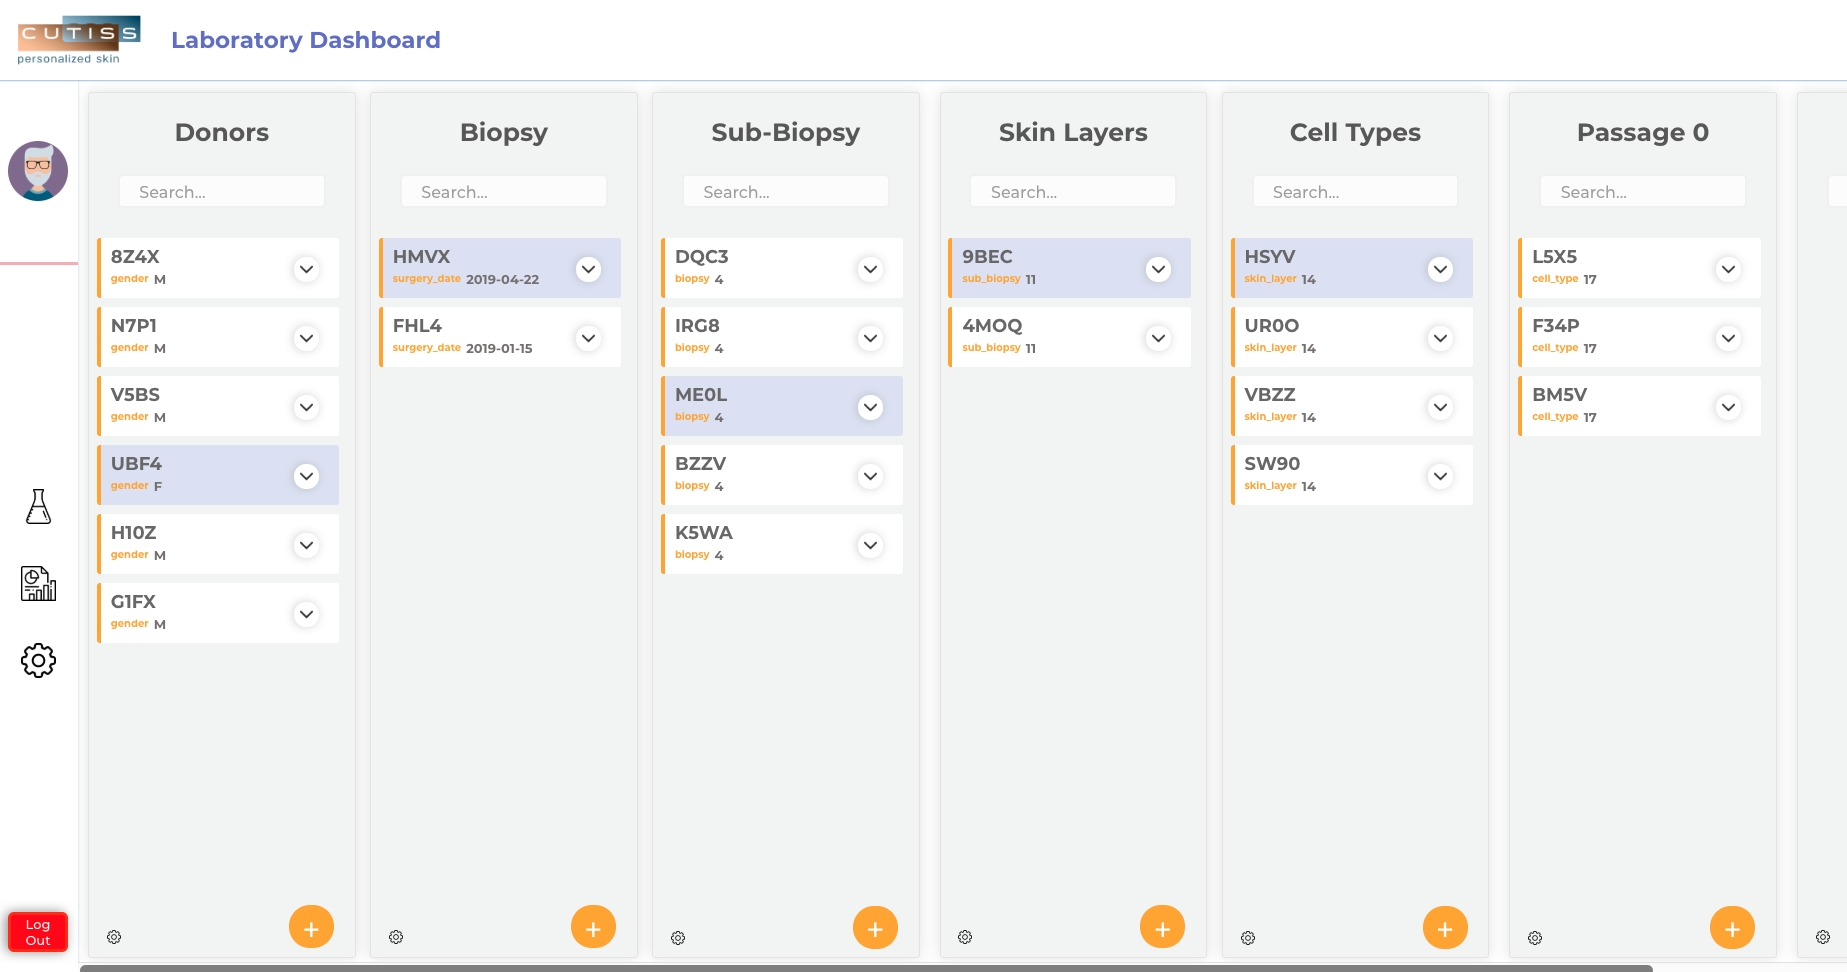
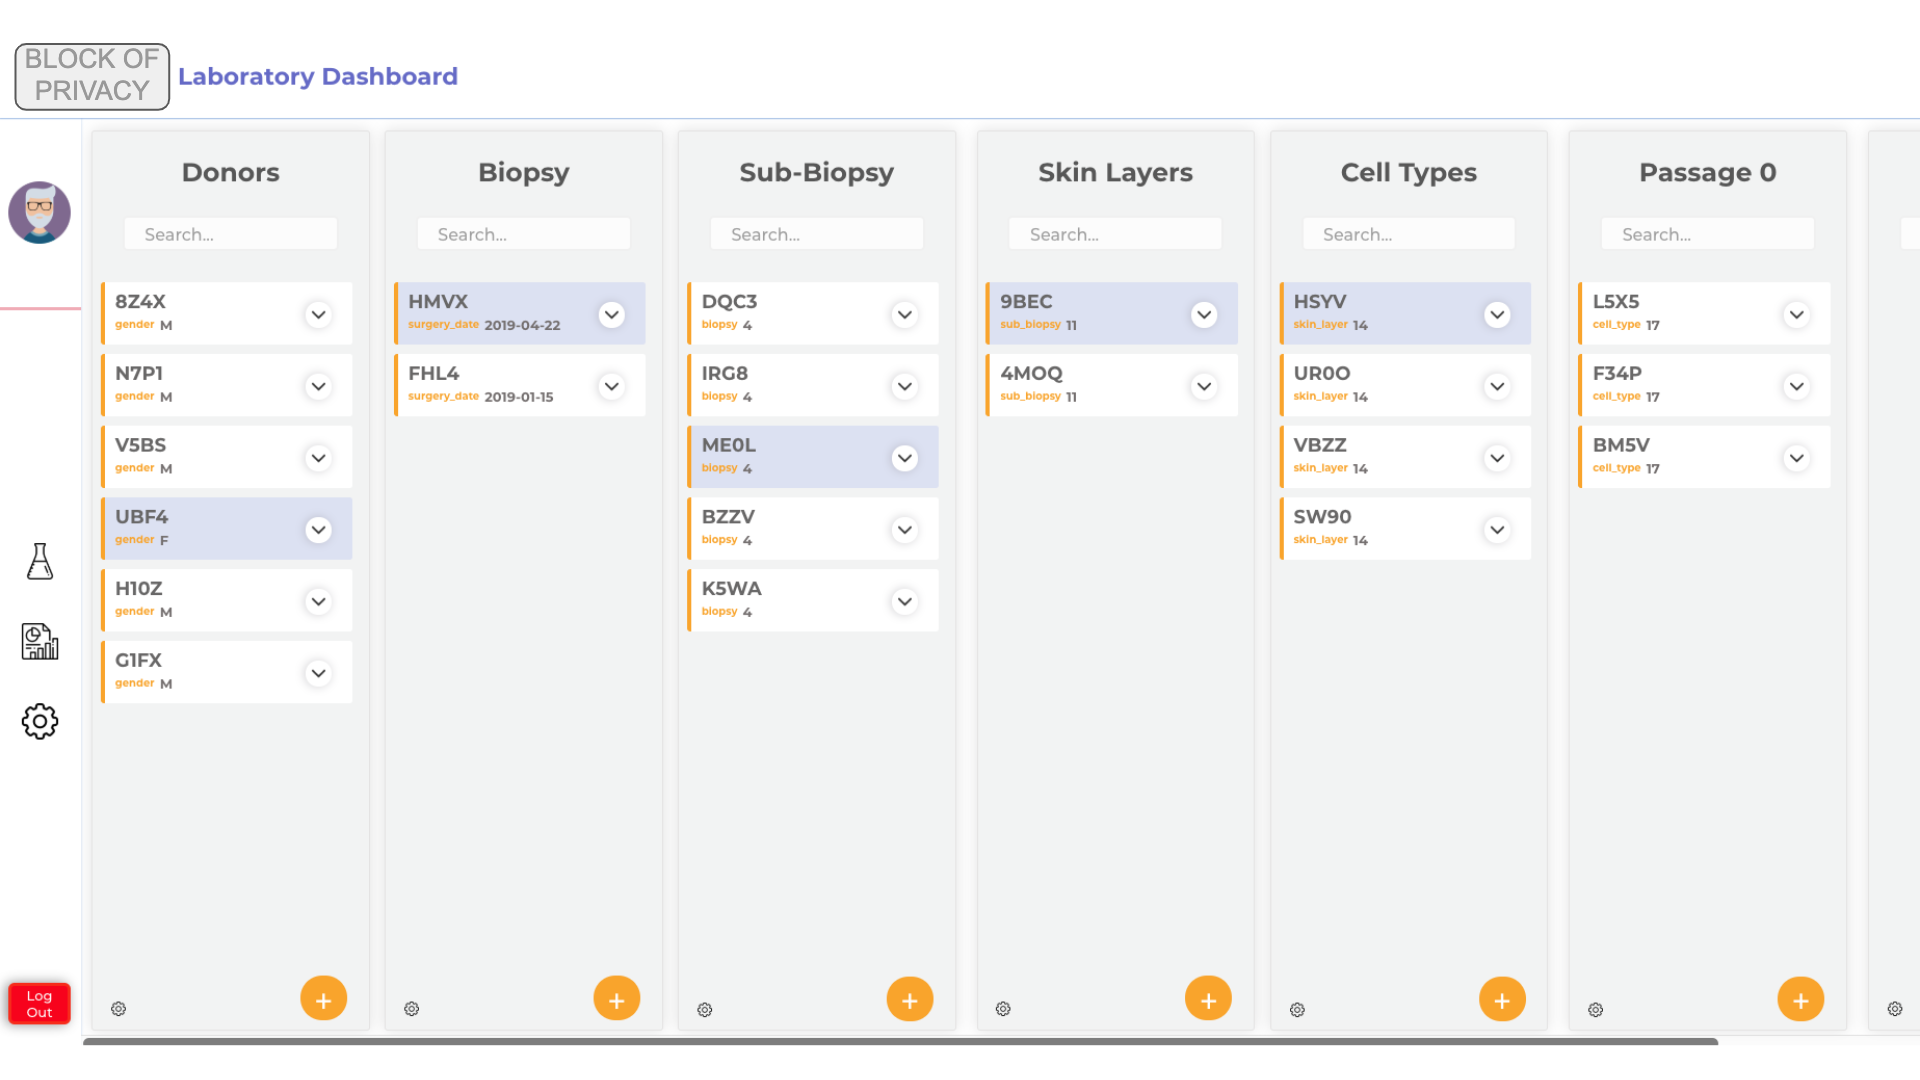
Updating project details in ReadMe and anonymizing demo screenshots

diff --git a/README.md b/README.md
@@ -1,37 +1,55 @@
 ![](frontend/src/assets/logo.png)
 
-# eSkin
-##This web application is meant for coding beginners and was built as my final project during my bootcamp at https://propulsion.academy/full-stack
+# Laboratory Dashboard
+## What is it?
+Web app built for a team of research scientists at a biotech company to log, edit, and analyze data from each step of their experiments.
 
-I started to learn programming with online courses like Codeacademy. I couldn't find any applications where I could save my code snippets, add my own comments and also run/test the code at the same place. That is what I tried to do.
+
+## Why?
+With each stage of their experiments, different data needs to be logged and tracked. Also, each entry is broken out into multiple entries in the next stage resulting in a massive amount of data needing organization, tracking, and analysis.
+
+This was the final project for my [Full Stack Web Development Bootcamp](https://propulsion.academy/full-stack) at Propulsion Academy built out for a swiss biotech company.
+
+## My contributions
+I worked alongside 2 fellow students with the guidance of our instructors to build this app from scratch to the meet the company's needs.  
+
+**I was primarily responsible for the following:**
+- DevOps: Project setup, deployment, admin features, and API/database maintenance
+- Backend: Models, serializers, and endpoint list
+- Frontend: Reporting features, auto-logout functionality
 
 ## How does it work?
 
-After logging in, the user can create new notes via a button on the sidebar. He will be redirected to a page with a split screen in 4 parts.
+After logging in, the user can view, edit, or create data entries with preloaded fields for each experiment step.
 
-- Bottom left - Console: Here the user can write code
-- Bottom right - Output: By clicking on run, the user will see the result of his code in this window
-- Top left - Snippet: The code from the console can be saved to the snippet window, which is read only.
-- Top right - Comment: The user can add his own comments and use Markdown to do it.
+- Each column represents a stage of the experiment and different data collection requirements.
+- In the columns, entries are shown with their unique ids
+- Clicking on individual entries displays and allows editing of the full data of the entry.
+- User can add new entries or edit existing data
 
-## Syntax highlighting
-
-- JavaScript
-- Python
-- HTML
-- CSS
+## Features
+ - Search function for entries by ID
+ - Filter function for all entries related to a parent entry
+ - Data fields with automatic calculations based on entered data
+ - Auto-generated unique ID based on lab reqiurements for new entries
+ - Preloaded fields for data entries stemming off of existing data
+ - Export function to download data in chosen format
+ - Real-time filterable reporting interface showing key metrics
+ - Full change history for compliance reasons
 
 ## Technology
-
 - DevOps: Docker, Gitlab, CI/CD, Nginx
-- Backend: Python, Django REST Framework, Postgres (API: https://snippetnotes.propulsion-learn.ch/backend/docs/)
+- Backend: Python, Django REST Framework, Postgres (API: LINK TO API DOC)
 - Frontend: HTML, SCSS, JavaScript, React, Redux
-- Plugins: React-sortable-tree, Codemirror, React Mde, Console-feed
+- Plugins: React-Plotly, React-Idle-Timer, Django-Import-Export, Django-Simple-History
 
-## Special feature
-
-In case the user needs a break, he can play a round of Snake accessible on the home page :)
-
-## Models
-
+## Database Schema/Models
 ![](Assets/Models.png)
+
+## Demo Screenshots
+![](Assets/1Login.png)
+![](Assets/2Dashboard.png)
+![](Assets/3NewEntry.png)
+![](Assets/4Filtering.png)
+![](Assets/5EntryDetail.png)
+![](Assets/6Reporting.png)
